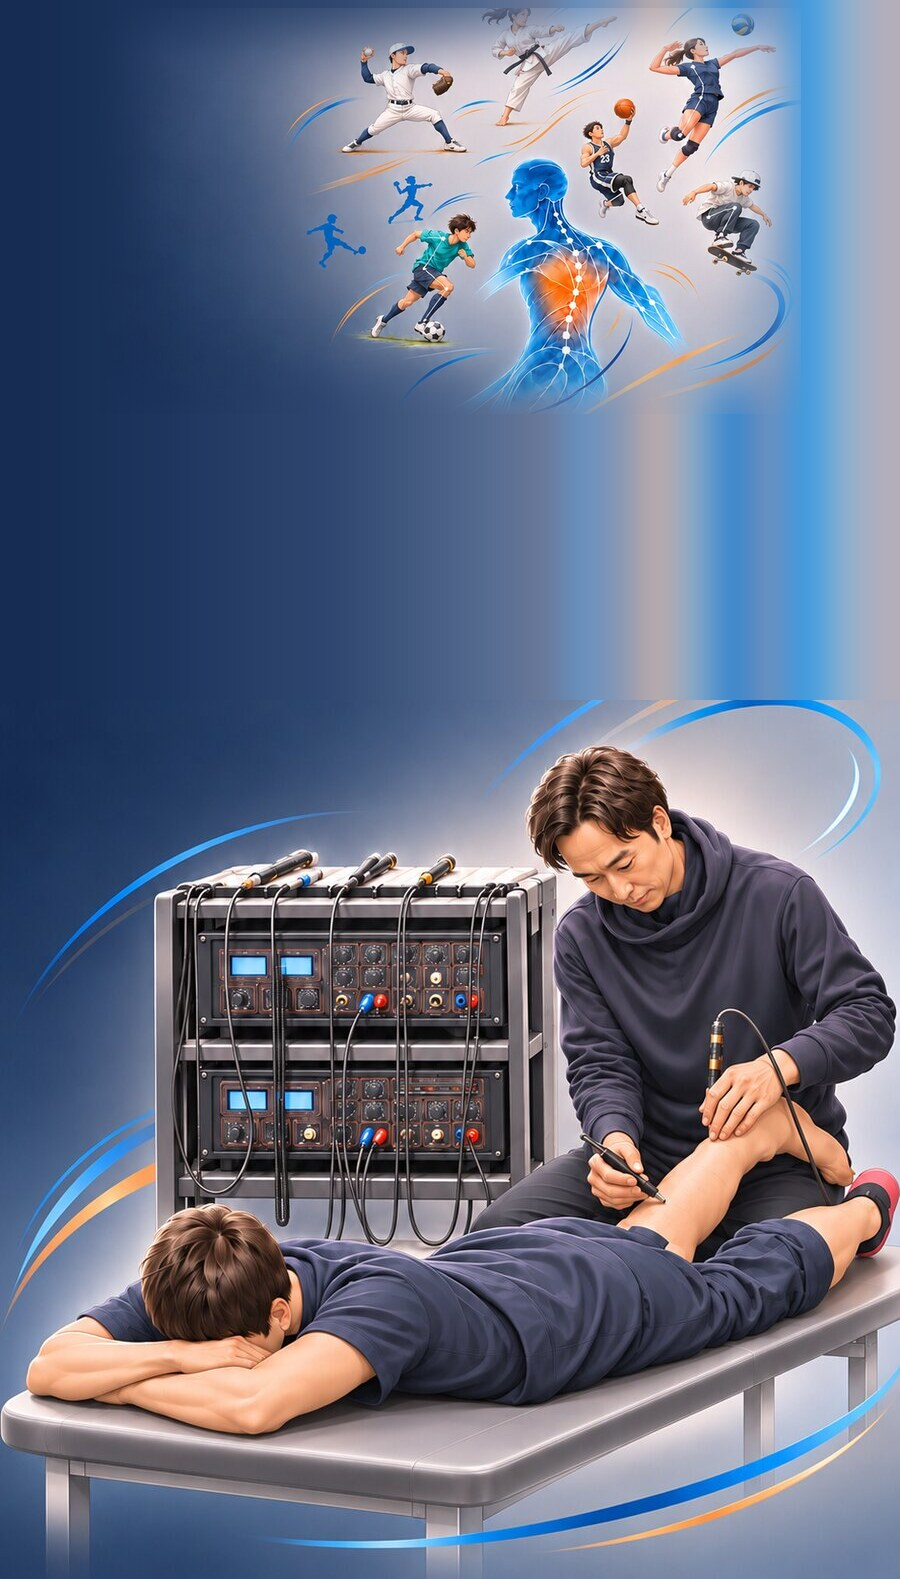
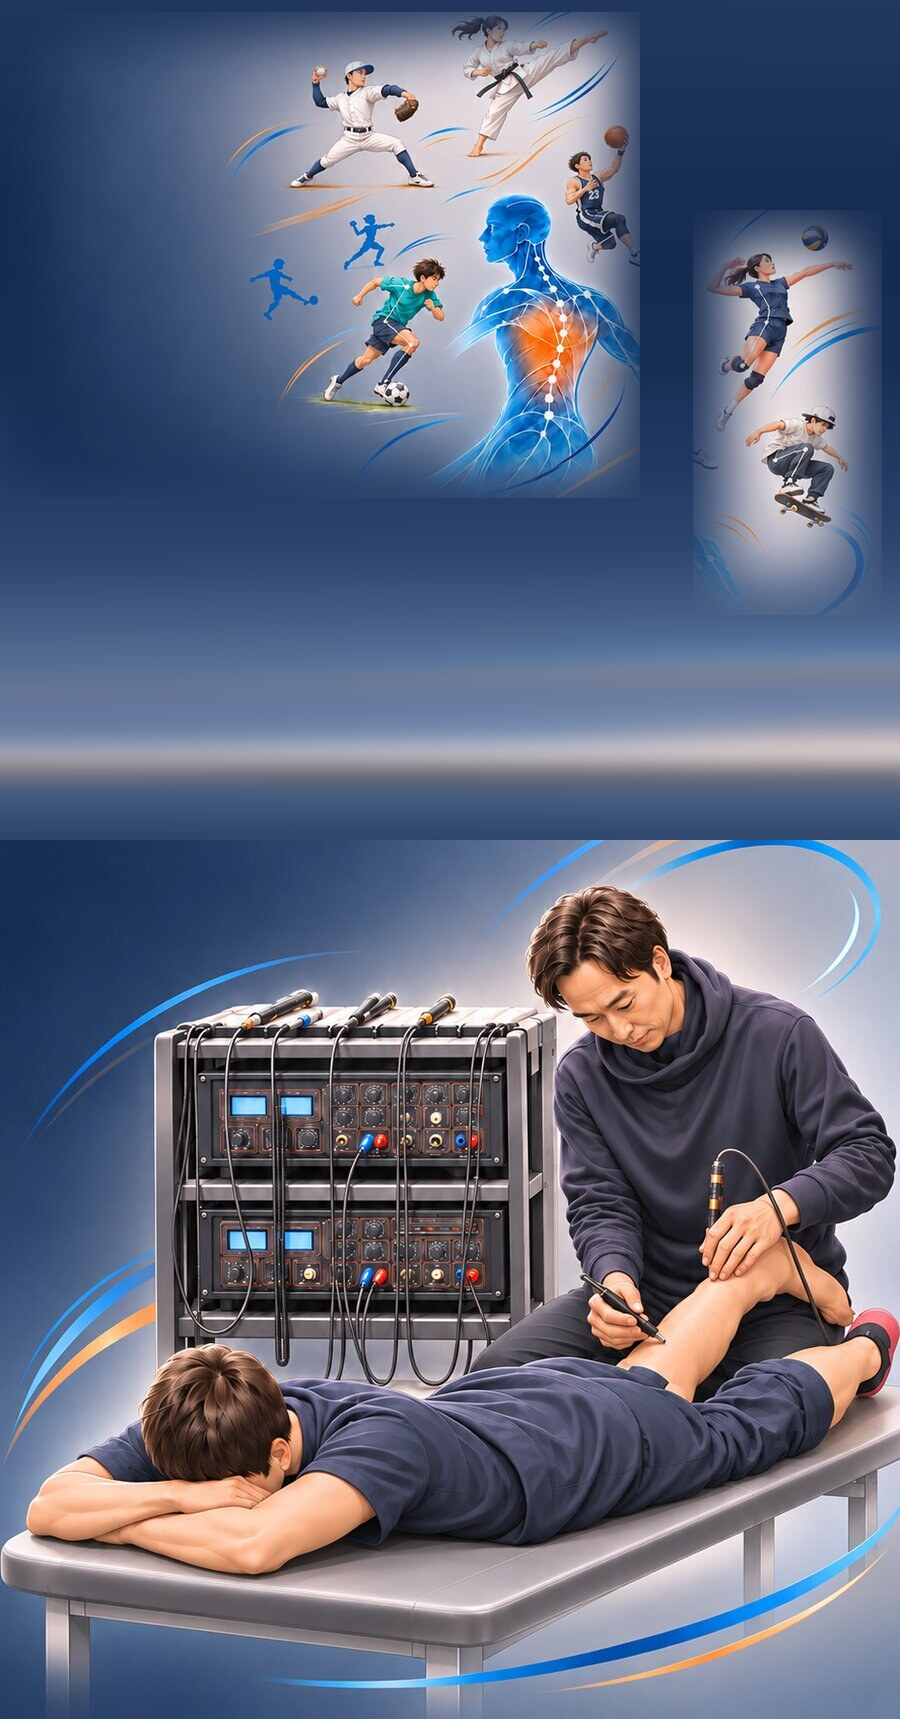
LP：FVヒーロー画像を再構成（上部の選手を右側の余白にも配置） (#80)
・空いていた見出し右側のネイビー余白に、スポーツ選手（バレー・スケボー）を配置
・上部バンドと右側で別々の選手を使い、重複なく上部〜右側へ流れる構図に
・見出しは引き続き左側のネイビーに収め、施術機器には重ねない
・画像差し替えに伴いキャッシュ対策のクエリ（?v=2）を付与

Claude-Session: https://claude.ai/code/session_015muQPYJe3hHtMJQipvfh7d

diff --git a/sports.html b/sports.html
@@ -77,7 +77,7 @@
   <!-- ========================= HERO ========================= -->
   <section class="hero hero--lp" id="hero">
     <div class="hero__media">
-      <img src="assets/images/sports-hero-art5.jpg" alt="様々なスポーツの選手と、阿部先生が施術機器で通電施術を行う様子を描いたイラスト" />
+      <img src="assets/images/sports-hero-art5.jpg?v=2" alt="様々なスポーツの選手と、阿部先生が施術機器で通電施術を行う様子を描いたイラスト" />
       <div class="hero__scrim"></div>
     </div>
     <div class="hero__inner">
